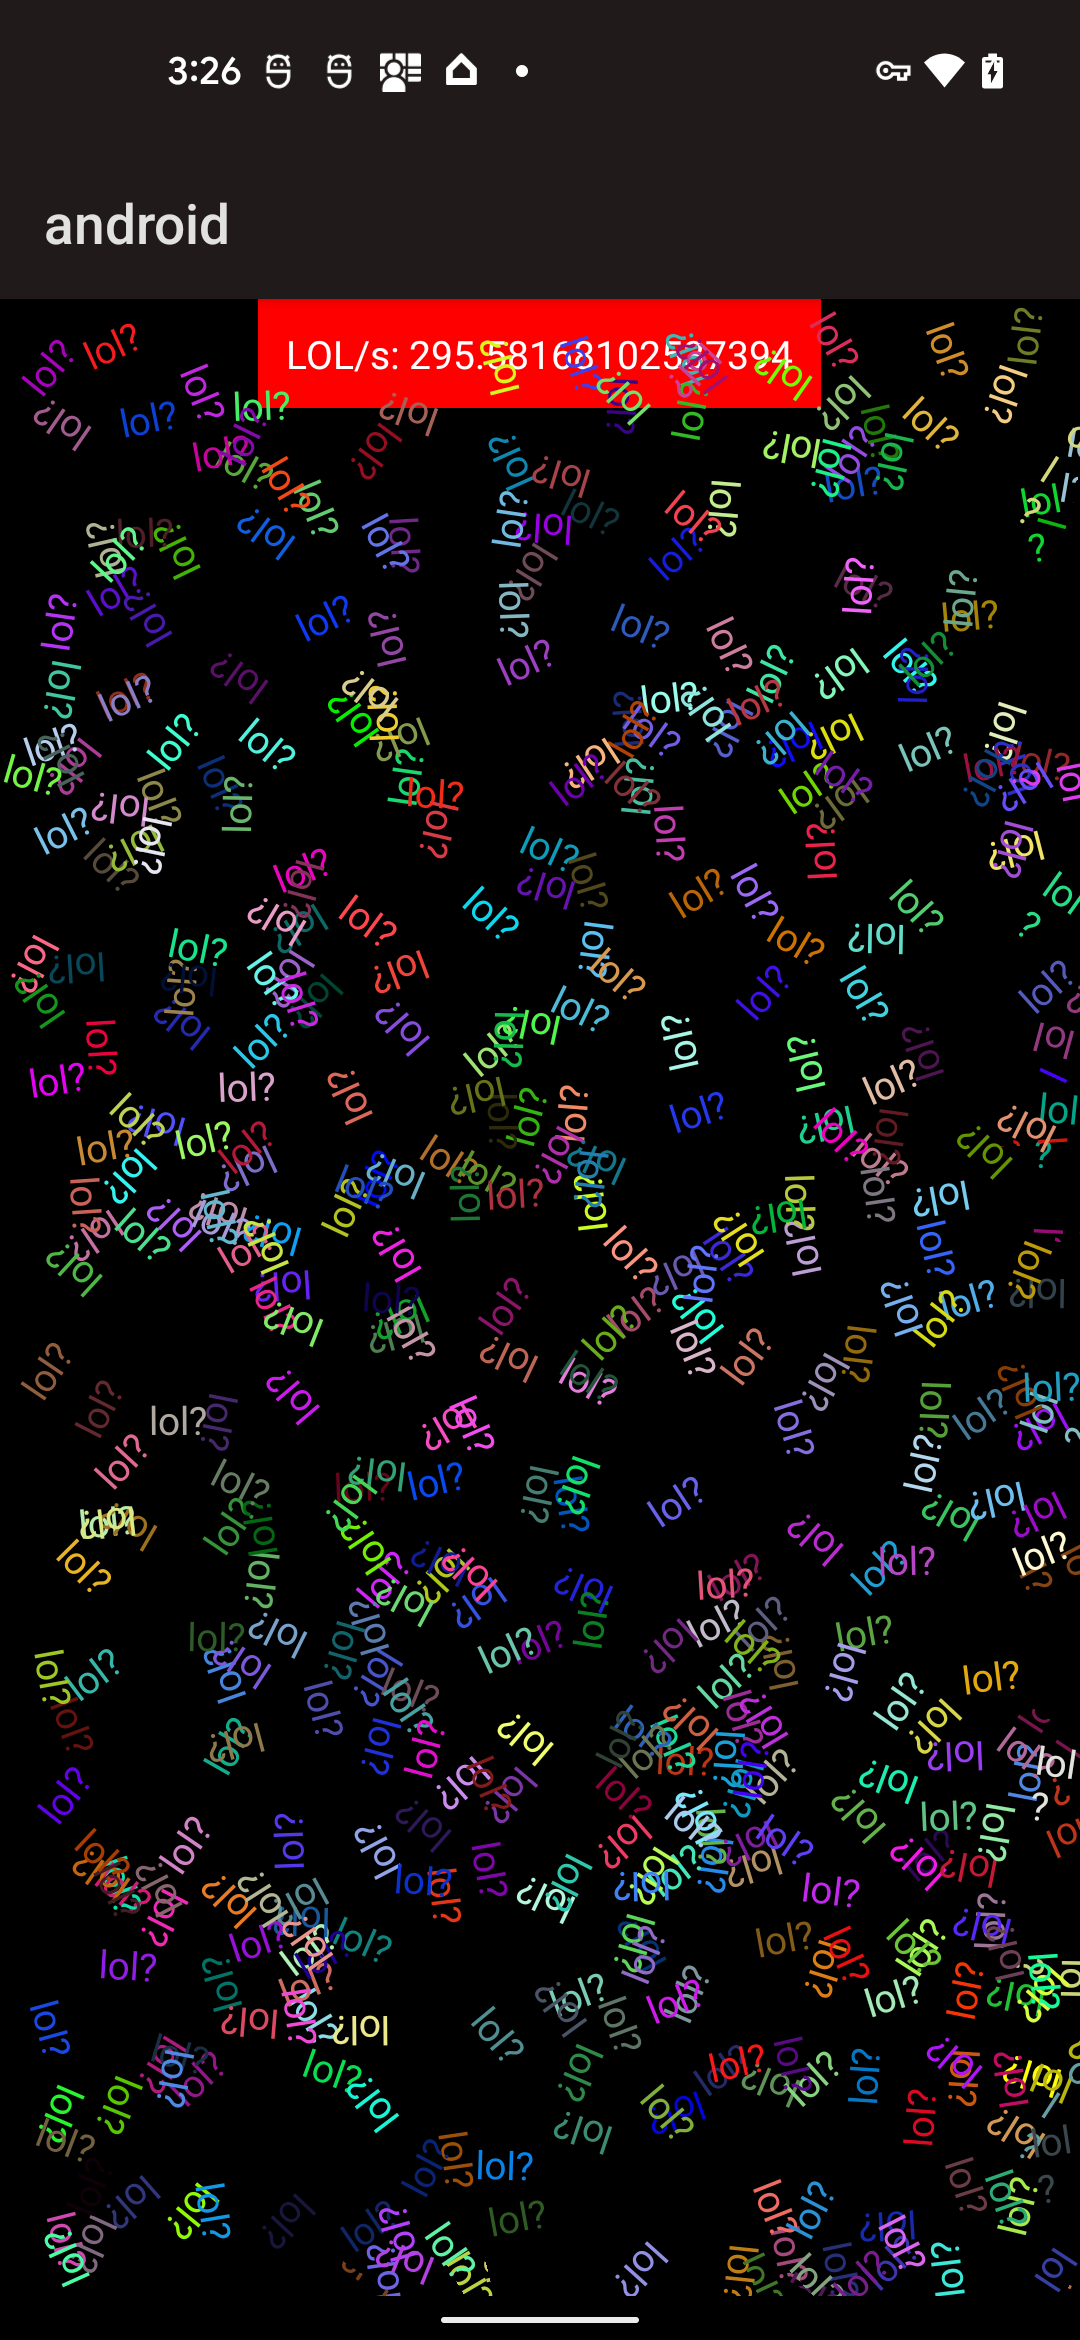
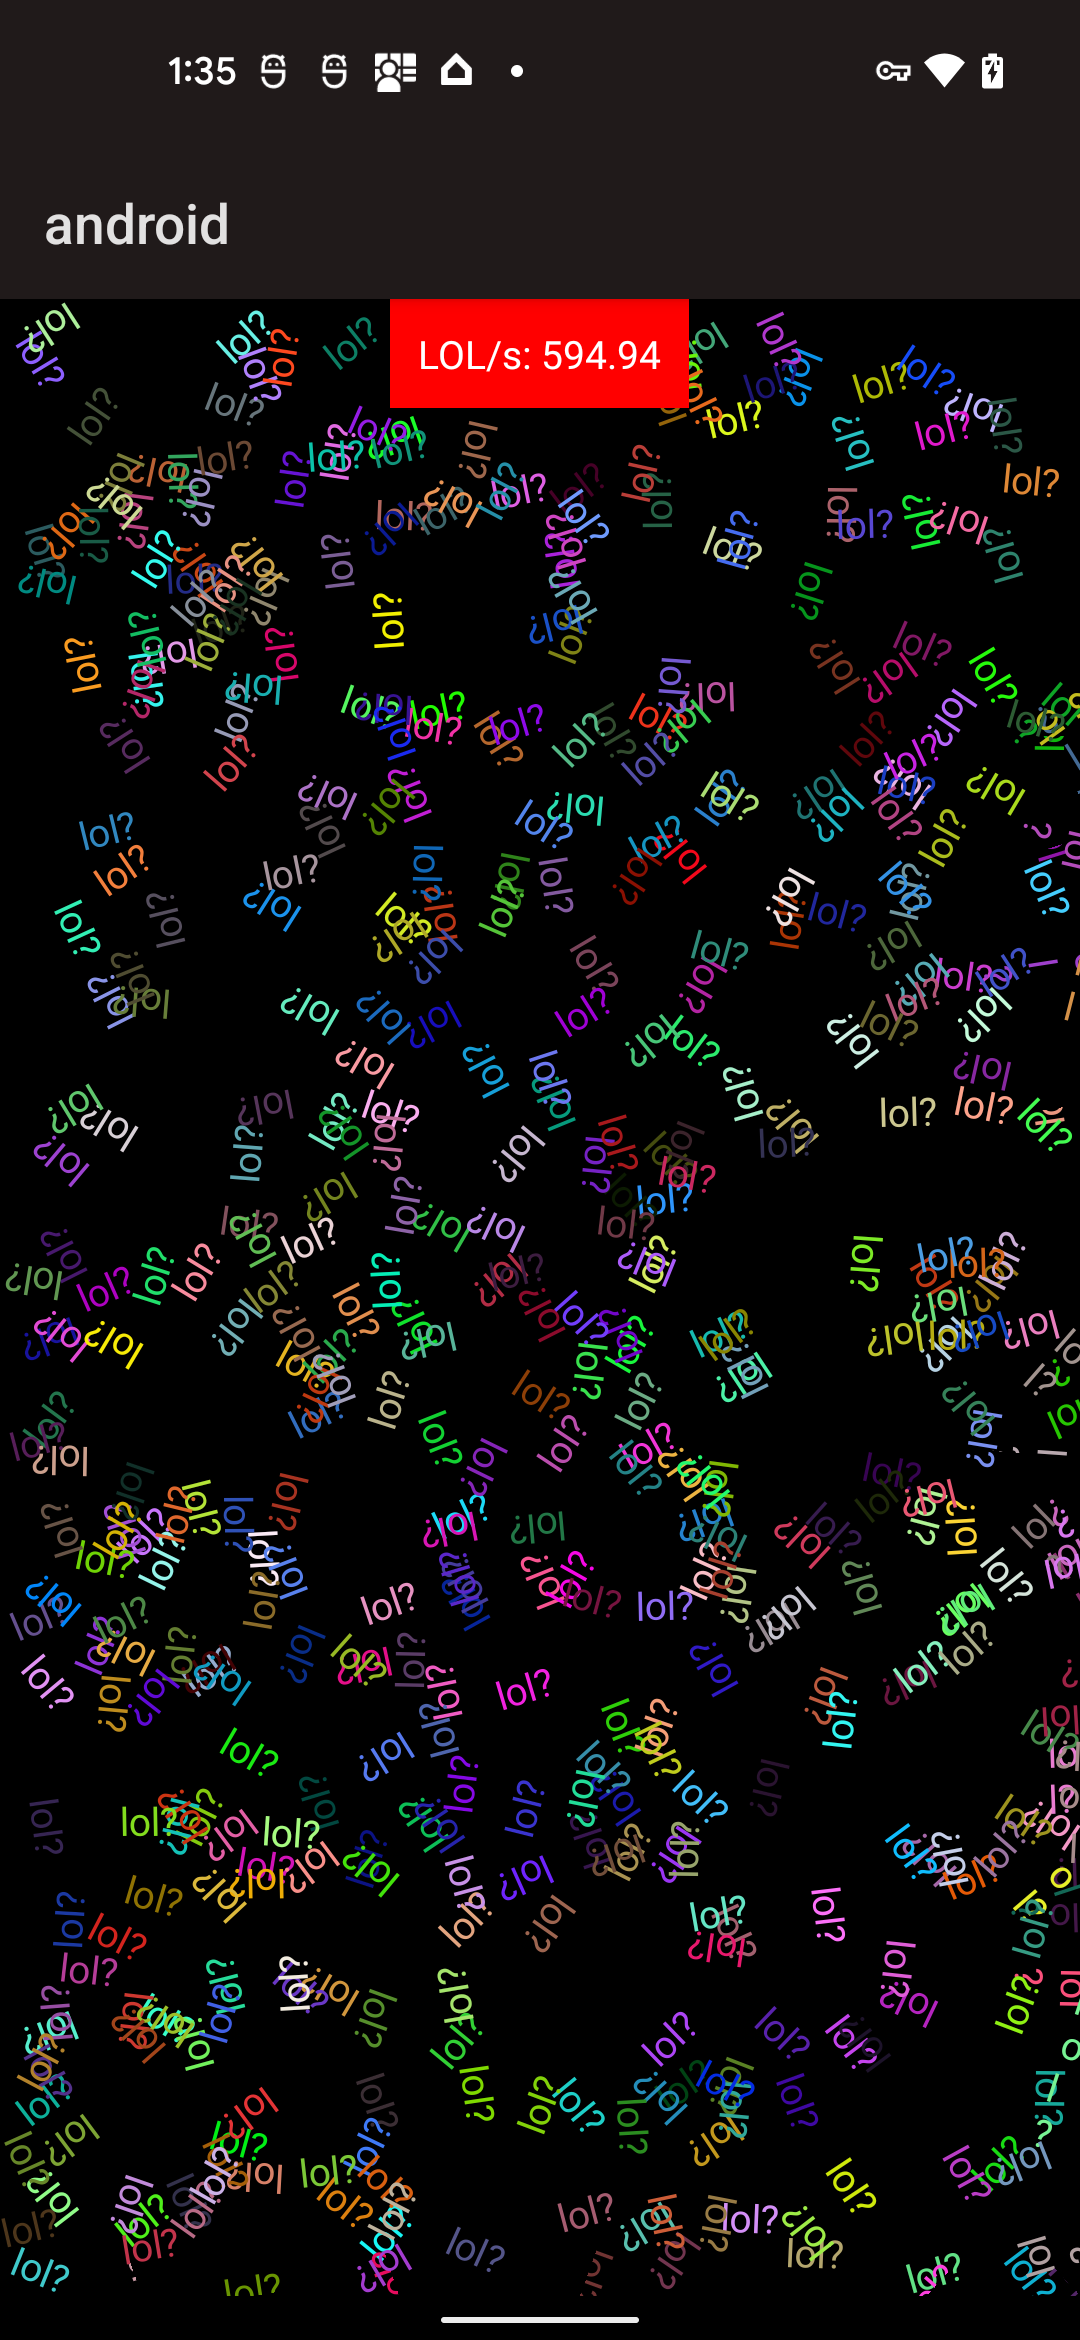
Use Thread.Sleep() instead of await Task.Delay()
This gives us better C# numbers

diff --git a/src/maui/AppShell.xaml b/src/maui/AppShell.xaml
@@ -7,7 +7,7 @@
     Shell.FlyoutBehavior="Disabled">
 
     <ShellContent
-        Title="Home"
+        Title=".NET MAUI"
         ContentTemplate="{DataTemplate local:MainPage}"
         Route="MainPage" />
 

diff --git a/src/android/MainActivity.cs b/src/android/MainActivity.cs
@@ -8,7 +8,6 @@ namespace lols;
 [Activity(Label = "@string/app_name", MainLauncher = true)]
 public class MainActivity : Activity
 {
-	const int Max = 500;
 	int count = 0;
 	readonly System.Timers.Timer timer = new System.Timers.Timer(500);
 	readonly Stopwatch stopwatch = new Stopwatch();
@@ -39,7 +38,7 @@ public class MainActivity : Activity
 
 	void UpdateText(string text) => lols!.Text = text;
 
-	async void RunTest()
+	void RunTest()
 	{
 		var random = Random.Shared;
 		int width = layout.Width;
@@ -61,7 +60,7 @@ public class MainActivity : Activity
 				Helper.Add(layout, label);
 				count++;
 			});
-			await Task.Delay(1);
+			Thread.Sleep(1);
 		}
 
 		stopwatch.Stop();

diff --git a/src/maui/MainPage.xaml.cs b/src/maui/MainPage.xaml.cs
@@ -31,7 +31,7 @@ public partial class MainPage : ContentPage
 
 	void UpdateText(string text) => lols.Text = text;
 
-	async void RunTest()
+	void RunTest()
 	{
 		var random = Random.Shared;
 
@@ -52,7 +52,8 @@ public partial class MainPage : ContentPage
 				absolute.Children.Add(label);
 				count++;
 			});
-			await Task.Delay(5);
+			//NOTE: plain Android we could put 1
+			Thread.Sleep(2);
 		}
 
 		stopwatch.Stop();
